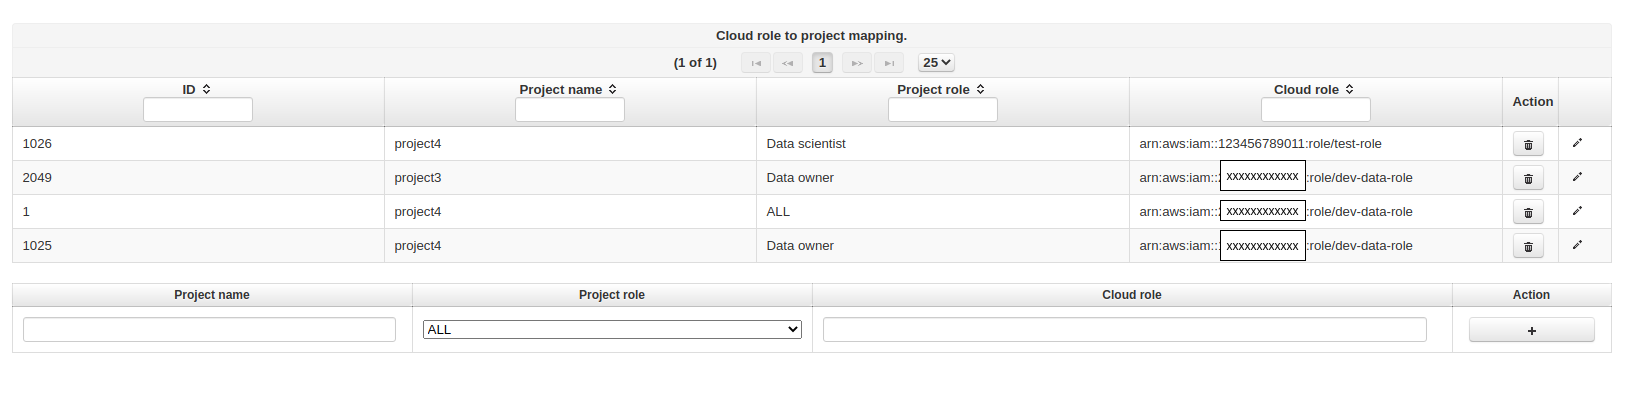
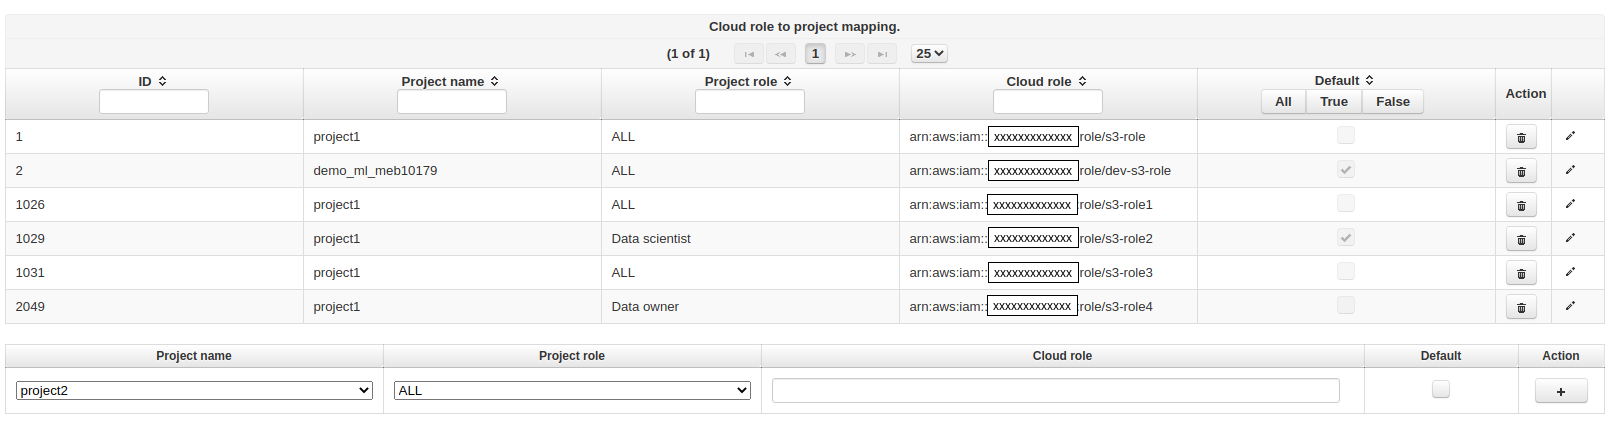
fix for default

diff --git a/docs/user_guide/hopsworks/assume-role.rst b/docs/user_guide/hopsworks/assume-role.rst
@@ -9,24 +9,31 @@ configure this go to :doc:`../../admin_guide/cloud_role_mapping`.
 After an administrator configured role mappings in Hopsworks you can see the roles you can assume by going
 to your project settings.
 
-.. _project-roles.png: ../_images/admin/project-roles.png
-.. figure:: ../../imgs/admin/project-roles.png
+.. _project-cloud-roles.png: ../_images/admin/project-cloud-roles.png
+.. figure:: ../../imgs/admin/project-cloud-roles.png
  :alt: Project roles
- :target: `project-roles.png`_
+ :target: `project-cloud-roles.png`_
  :align: center
  :figclass: align-cente
 
  Cloud roles mapped to project.
  
 You can then use the Hops Python and Java APIs to assume the roles listed in your project's settings page.
- 
+
 When calling the assume role method you can pass the role ARN string or use the get role method that takes
-the role id as an argument.
+the role id as an argument. If you assign a default role for your project you can call
+the assume role method with no argument.
  
+You can assign (if you are a Data owner in that project) a default role to you project by clicking on the **Default** button above the role you want to make default. You can set one default per project role. If a default is set for
+a project role (Data scientist or Data owner) and all members (ALL) the default set for the project role will take precedence over the default set for all members.
+In the image above if a Data scientist called the assume role method with no arguments she will assume the role with id 1029 but if a Data owner
+called the same method she will assume the role with id 1.
+
+
 .. code-block:: python
  
    from hops.credentials_provider import get_role, assume_role
-   credentials = assume_role(get_role(1))
+   credentials = assume_role(role_arn=get_role(1))
    spark.read.csv("s3a://resource/test.csv").show()
  
  
@@ -51,7 +58,7 @@ The code below shows how to read training and validation datasets from s3 bucket
    import tensorflow as tf
    import os
  
-   assume_role(get_role(1))
+   assume_role(role_arn=get_role(1))
    os.environ["AWS_REGION"] = "eu-north-1" # s3 bucket region need to be set for TensorFlow
  
    train_filenames = ["s3://resource/train/train.tfrecords"]

diff --git a/docs/admin_guide/cloud_role_mapping.rst b/docs/admin_guide/cloud_role_mapping.rst
@@ -68,8 +68,11 @@ to roles we can create a per project mapping from the admin page in hopsworks.
  
   Go to cloud role mapping.
 
-By clicking the cloud role mapping icon in the admin page shown in the image above you can add mappings 
+By clicking the cloud role mapping icon in the admin page shown in the image above you can add mappings
 by entering the project name, which roles in that project can access the cloud role and the role ARN.
+Optionally you can set a role mapping as default by marking the default checkbox. The default roles can be changed from the project setting by a Data owner in that project.
+
+
 
 .. _role-mappings.png: ../_images/admin/role-mappings.png
 .. figure:: ../imgs/admin/role-mappings.png
@@ -83,10 +86,10 @@ by entering the project name, which roles in that project can access the cloud r
 
 Any member of a project can then go to the project settings page to see which roles they can assume.
 
-.. _project-roles.png: ../_images/admin/project-roles.png
-.. figure:: ../imgs/admin/project-roles.png
+.. _project-cloud-roles.png: ../_images/admin/project-cloud-roles.png
+.. figure:: ../imgs/admin/project-cloud-roles.png
   :alt: Project roles
-  :target: `project-roles.png`_
+  :target: `project-cloud-roles.png`_
   :align: center
   :figclass: align-cente
  
